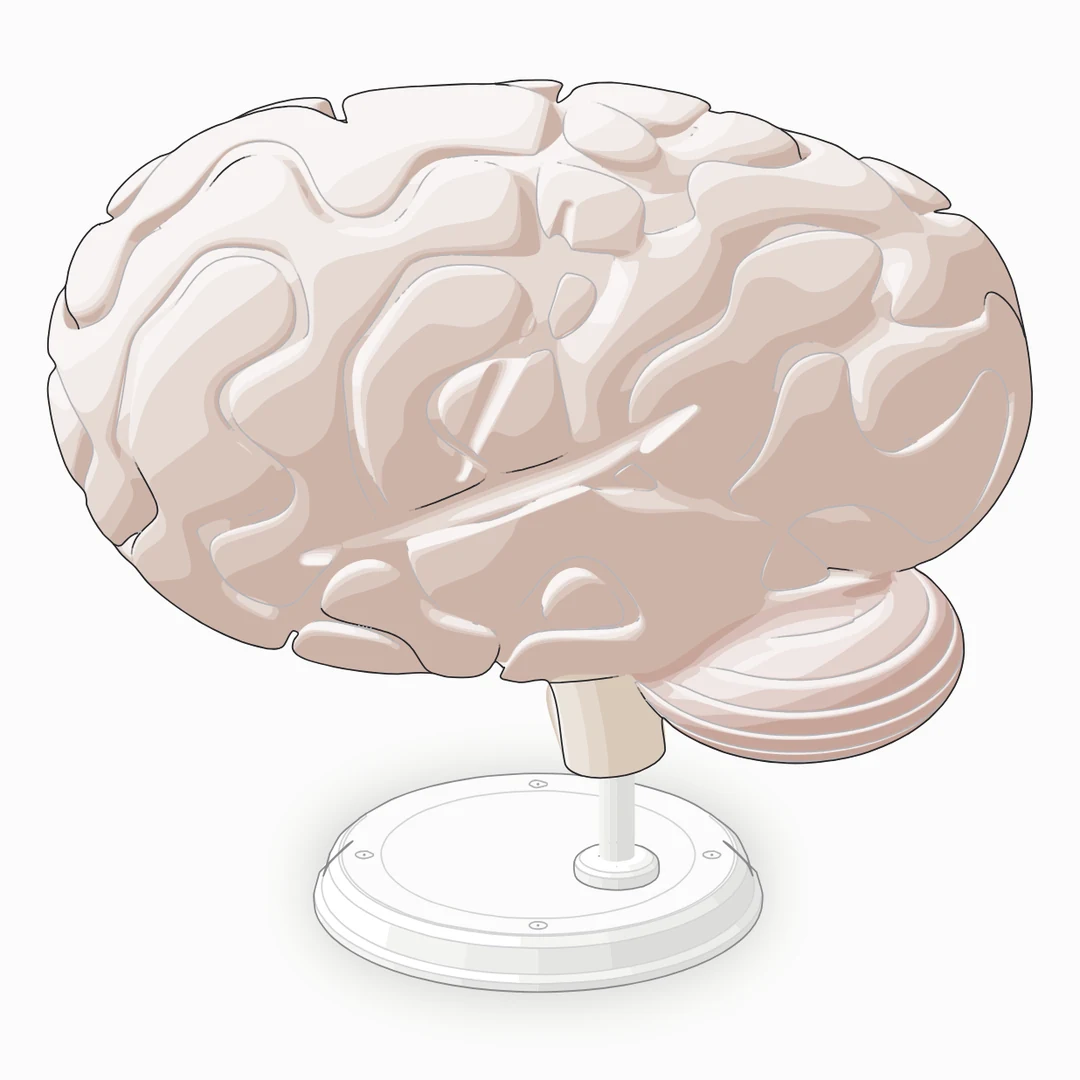
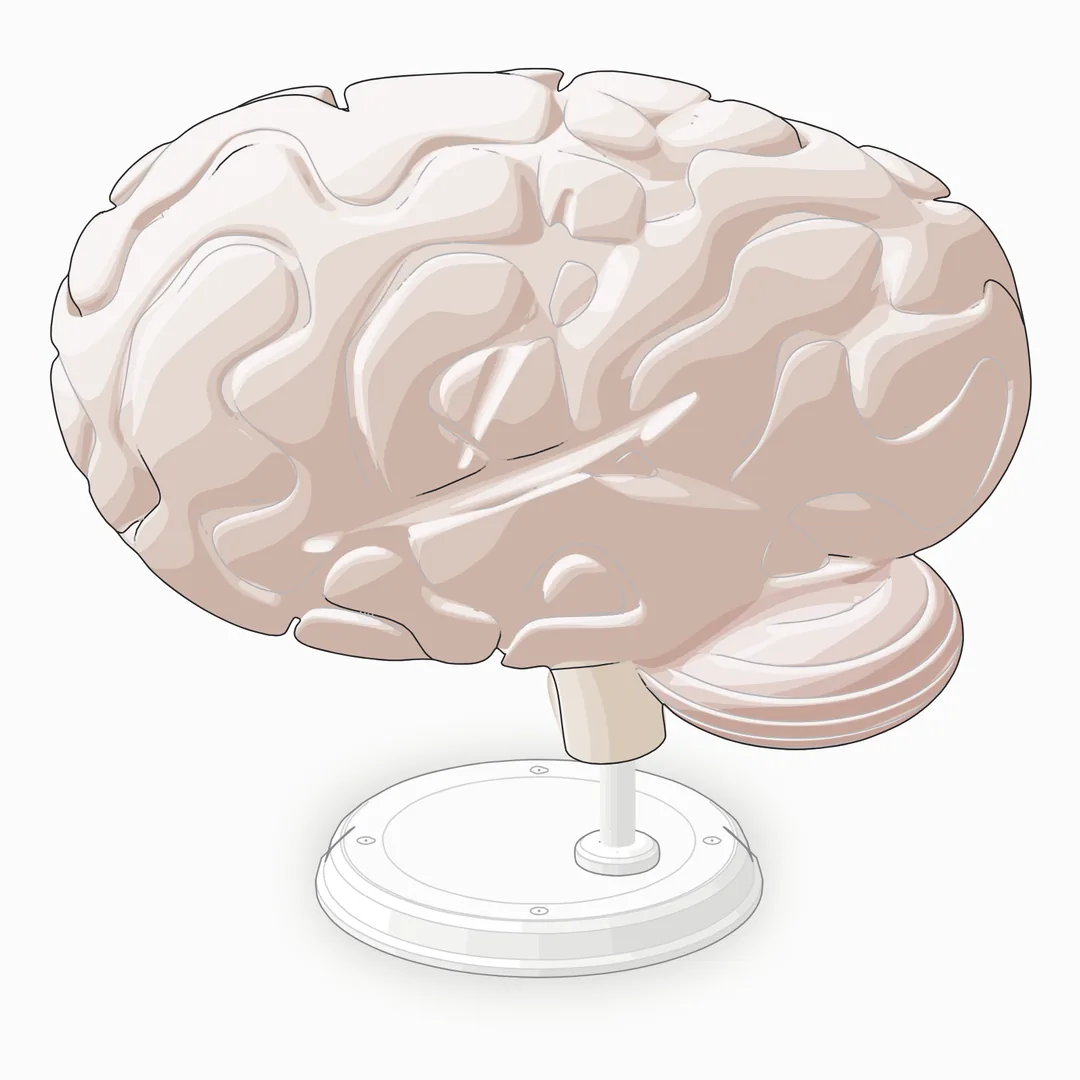
Gallery images, READMEs and changelog for the new liver and lighter pages

diff --git a/docs/index.html b/docs/index.html
@@ -99,7 +99,7 @@ footer p{margin:6px 0}
 
 <a class="card" href="liver.html">
 <div class="corners"><span>Fig 4</span><b>Liver</b></div>
-<img src="img/liver.webp" width="560" height="560" alt="A liver model seen from the front: the large right lobe and tapering left lobe divided by the falciform ligament, the green gallbladder below, the portal vein, hepatic artery and bile duct at the porta, and the inferior vena cava above.">
+<img src="img/liver.webp" width="560" height="560" alt="A liver model seen from the front: the large right lobe and tapering left lobe divided by the falciform ligament, which runs down to the notch in the sharp inferior border, the fundus of the green gallbladder just below the border, and the inferior vena cava above.">
 <div class="body">
 <p>The right and left lobes, the falciform ligament, the gallbladder, the portal vein, hepatic artery and bile duct at the porta, and the inferior vena cava.</p>
 <span class="views">front · from the right · from the left</span>

diff --git a/CHANGELOG.md b/CHANGELOG.md
@@ -23,10 +23,13 @@ All notable changes to specimen are recorded here. Specimen is a fork of [Anatom
 
 ### Changed
 
+- Specimen fork: lighter organ pages. `fieldSvg` draws the contour lines that share a tone, fade step and free end as one path; `paint` simplifies contours and their fade ramps to `lineSmooth` (0.12 px), and fits each overlay tone ring to a tolerance that follows its width, up to `toneSmooth`. The brain sets `toneSmooth: 2.5` and `lineSmooth: 0.2`: its views drop from about 180–200 KB to 93–98 KB and its page from 603 to 335 KB, with the same gyri and sulci at 1× and 4×. The heart page drops from 610 to 554 KB and the kidney from 221 to 219 KB, with the same look.
+- Specimen fork: the liver is remodelled (`examples/liver/model.mjs`). The right lobe is about five times the left by volume, the left lobe tapers to the left, and the anterior and visceral surfaces meet at a sharp inferior border. The falciform ligament is a low fold with its own tone from the top of the liver to the notch in the border, where the round ligament passes under; the tone bands run on across it. The gallbladder sits in its fossa with the fundus just past the border; at the porta the bile duct lies in front on the right, the hepatic artery in front on the left and the portal vein behind, all cut short; the inferior vena cava lies in its groove at the back. The views are the front, from the right and from behind.
 - A Figure no longer quotes a time to the user. The 30–90 minute estimate was often far longer than the build itself ([#41](https://github.com/wheresryan22/anatomy/issues/41)).
 
 ### Fixed
 
+- Specimen fork: contour lines are simplified by their distance to each chord segment, not to its infinite line, so a contour that hooks back at its end keeps the hook and the lines snapped to it stay attached.
 - Line-end audits follow cubic and quadratic strokes with a bounded screen-space approximation, so lines attached between curve samples are not reported as loose.
 
 - `drive.mjs` waits for the page to load (up to 10 s) before it runs the first action, and gives up with an error when Chrome leaves a request unanswered for 60 s instead of hanging, as `capture.mjs` now does.
@@ -60,6 +63,7 @@ All notable changes to specimen are recorded here. Specimen is a fork of [Anatom
 
 ### Fixed
 
+- Specimen fork: contour lines are simplified by their distance to each chord segment, not to its infinite line, so a contour that hooks back at its end keeps the hook and the lines snapped to it stay attached.
 - Start headless Chrome on Linux: `capture.mjs`, `drive.mjs` and `turn-check.mjs` pass `--no-sandbox` there and find Playwright's Linux Chromium under `~/.cache/ms-playwright`, so the browser checks and the gallery's validator run on Linux hosts.
 - `references/publish.md` clones the gallery with `--single-branch`, so contributors skip the previews branch and its images.
 - `publish.mjs --submit` no longer stops with "already exists" when an earlier run without `--submit` left the figure's folder in the clone; it only asks for `--force` when the folder is already on the gallery's main.
@@ -109,6 +113,7 @@ All notable changes to specimen are recorded here. Specimen is a fork of [Anatom
 
 ### Fixed
 
+- Specimen fork: contour lines are simplified by their distance to each chord segment, not to its infinite line, so a contour that hooks back at its end keeps the hook and the lines snapped to it stay attached.
 - `examples/test-rig/` drew its glass button dark in the light theme. `stretch.css` now has light values for its own colours.
 
 ### Changed

diff --git a/README.es.md b/README.es.md
@@ -66,7 +66,7 @@ Las piezas de máquina del kit original (sólidos torneados, tubos, cables, inst
   </tr>
   <tr>
     <td><a href="https://julianolarteramos.github.io/specimen/brain.html"><img src=".github/assets/brain.webp" alt="Un modelo de la mitad izquierda de un cerebro visto desde la izquierda: circunvoluciones y surcos, la cisura lateral, el cerebelo con sus folias y el tronco encefálico."></a></td>
-    <td><a href="https://julianolarteramos.github.io/specimen/liver.html"><img src=".github/assets/liver.webp" alt="Un modelo de hígado visto de frente: los lóbulos derecho e izquierdo separados por el ligamento falciforme, la vesícula biliar debajo, la vena porta, la arteria hepática y el colédoco en el hilio, y la vena cava inferior arriba."></a></td>
+    <td><a href="https://julianolarteramos.github.io/specimen/liver.html"><img src=".github/assets/liver.webp" alt="Un modelo de hígado visto de frente: el gran lóbulo derecho y el izquierdo, que se afina hacia la izquierda, separados por el ligamento falciforme, que baja hasta la escotadura del borde inferior afilado; el fondo de la vesícula biliar asoma bajo el borde, y la vena cava inferior arriba."></a></td>
   </tr>
   <tr>
     <td><sub><b>Cerebro, hemisferio izquierdo.</b> Circunvoluciones talladas en la corteza por un campo de banda limitada, más la cisura lateral y el surco central; folias del cerebelo.</sub></td>
@@ -162,8 +162,8 @@ Los ejemplos de máquinas de Anatomy se conservan como referencia para montajes,
 
 - **Un modelo didáctico, no un atlas.** Las superficies y los colores están simplificados a propósito, y las figuras no son una referencia médica.
 - **Las circunvoluciones del cerebro son procedurales.** Salen de un campo de ruido de banda limitada tallado en la corteza; solo la cisura lateral y el surco central están puestos anatómicamente. El patrón de los demás pliegues no es el de un cerebro real.
-- **La cara visceral del hígado está simplificada.** Están el hilio, sus vasos, la vesícula y la vena cava inferior, y el lóbulo caudado es un solo abultamiento; las impresiones de los órganos vecinos, el lóbulo cuadrado y las fisuras de la cara visceral no están modelados.
-- **Vistas pregeneradas, no 3D libre.** Cada vista es un SVG aparte de unos 50–200 KB (las del cerebro son las más pesadas, unos 180–200 KB); una página con tres a seis vistas pesa entre 220 y 620 KB. El giro salta entre vistas con un fundido.
+- **La cara visceral del hígado está simplificada.** Es un solo plano que se encuentra con la cara anterior en el borde inferior afilado. Están el hilio con sus vasos, la vesícula en su fosa y la vena cava inferior en su surco, y el lóbulo caudado es un solo abultamiento; las impresiones de los órganos vecinos, el lóbulo cuadrado y las fisuras de la cara visceral no están modelados.
+- **Vistas pregeneradas, no 3D libre.** Cada vista es un SVG aparte de unos 35–125 KB (el corte de cuatro cámaras del corazón es la más pesada; las del cerebro rondan los 95 KB); una página con tres a seis vistas pesa entre 170 y 560 KB. El giro salta entre vistas con un fundido.
 - **Las páginas de ejemplo están en inglés.** Sus títulos, indicaciones, leyendas y pies salen de cada script de construcción y se pueden traducir ahí.
 - **Construir es lento.** Cada vista se calcula por ray marching al construir: el corazón tarda varios minutos por tema.
 - **No es una librería de gráficos.** No hay ejes ni series; los números aparecen como lectura en vivo de un modelo.

diff --git a/README.md b/README.md
@@ -66,7 +66,7 @@ The machine parts of the kit it comes from (turned solids, pipes, cables, instru
   </tr>
   <tr>
     <td><a href="https://julianolarteramos.github.io/specimen/brain.html"><img src=".github/assets/brain.webp" alt="A model of the left half of a brain seen from the left: gyri and sulci, the lateral fissure, the cerebellum with its folia and the brainstem."></a></td>
-    <td><a href="https://julianolarteramos.github.io/specimen/liver.html"><img src=".github/assets/liver.webp" alt="A liver model seen from the front: the right and left lobes divided by the falciform ligament, the gallbladder below, the portal vein, hepatic artery and bile duct at the porta, and the inferior vena cava above."></a></td>
+    <td><a href="https://julianolarteramos.github.io/specimen/liver.html"><img src=".github/assets/liver.webp" alt="A liver model seen from the front: the large right lobe and the left lobe tapering to the left, divided by the falciform ligament that runs down to the notch in the sharp inferior border, the fundus of the gallbladder just below the border, and the inferior vena cava above."></a></td>
   </tr>
   <tr>
     <td><sub><b>Brain, left hemisphere.</b> Gyri carved into the cortex by a band-limited field, plus the lateral fissure and the central sulcus; cerebellar folia.</sub></td>
@@ -186,8 +186,8 @@ The machine examples from Anatomy are kept as the reference for mounts, instrume
 
 - **A teaching model, not an atlas.** Surfaces and colours are simplified on purpose, and the figures are not a medical reference.
 - **The brain's gyri are procedural.** They come from a band-limited noise field carved into the cortex; only the lateral fissure and the central sulcus are placed anatomically. The pattern of the other folds is not a real brain's.
-- **The liver's visceral face is simplified.** The porta, its vessels, the gallbladder and the inferior vena cava are there, and the caudate lobe is a single swelling; the impressions of neighbouring organs, the quadrate lobe and the fissures of the visceral face are not modelled.
-- **Views are pre-built, not free 3D.** Each view is a separate SVG of about 50–200 KB (the brain's are the heaviest, about 180–200 KB); a page with three to six views weighs 220–620 KB. Turning steps between views with a crossfade.
+- **The liver's visceral face is simplified.** It is a single plane that meets the front of the liver at the sharp inferior border. The porta with its vessels, the gallbladder in its fossa and the inferior vena cava in its groove are there, and the caudate lobe is a single swelling; the impressions of neighbouring organs, the quadrate lobe and the fissures of the visceral face are not modelled.
+- **Views are pre-built, not free 3D.** Each view is a separate SVG of about 35–125 KB (the heart's four-chamber cut is the heaviest; the brain's are about 95 KB); a page with three to six views weighs 170–560 KB. Turning steps between views with a crossfade.
 - **The example pages are in English.** Their titles, hints, legends and captions come from each build script and can be translated there.
 - **Builds are slow.** Every view is ray-marched at build time: the heart takes several minutes per theme.
 - **Not a chart library.** No axes or data plots; numbers appear as a live readout driven by a model.
